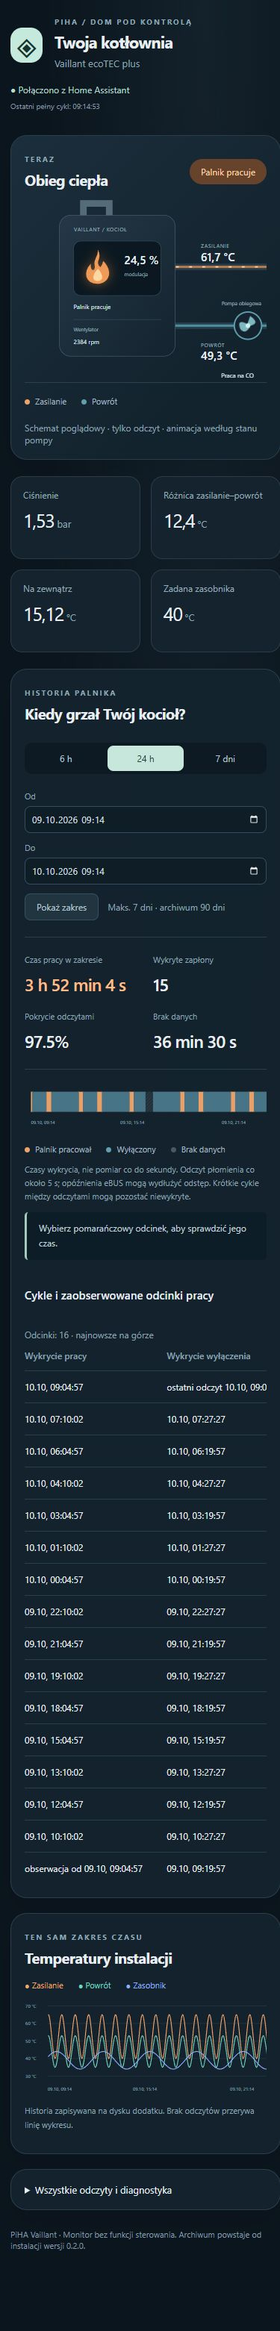
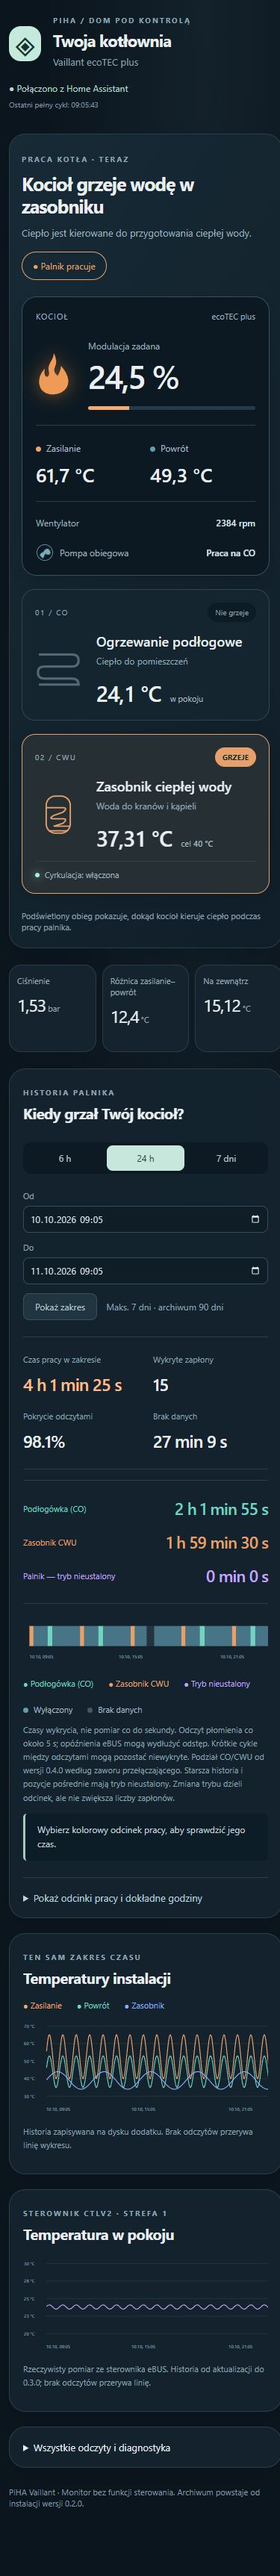
Redesign live boiler overview for clarity in version 0.5.0

diff --git a/pihavaillant/frontend/style.css b/pihavaillant/frontend/style.css
@@ -1,1 +1,3 @@
 :root{color-scheme:dark;font-family:Inter,ui-sans-serif,system-ui,sans-serif;background:#0b151d;color:#e9eff3;font-synthesis:none}*{box-sizing:border-box}body{margin:0;background:radial-gradient(ellipse at 70% 0,#20344166,transparent 55%)}main{max-width:1200px;margin:auto;padding:36px 28px}header,.section-head{display:flex;align-items:center;justify-content:space-between;gap:20px}header{margin-bottom:32px}.brand{display:flex;align-items:center;gap:16px}.brand-icon{display:grid;place-items:center;width:52px;height:58px;border-radius:16px;background:#c5e9dc;color:#16332c;font-size:38px}.eyebrow{font-size:10px;font-weight:650;letter-spacing:2px;color:#8fa9b8}h1{font-size:27px;letter-spacing:-.8px;margin:5px 0}h1 span{display:block;font-size:13px;color:#8ea5b3;letter-spacing:0;font-weight:400;margin-top:5px}h2{font-size:22px;letter-spacing:-.5px;margin:6px 0}h3{font-size:15px;font-weight:550}p{line-height:1.65}.connection{text-align:right;font-size:12px;color:#b4dacc}.connection small{display:block;color:#8599a7;margin-top:7px}.panel{background:#13232ef0;border:1px solid #2a3e4c;border-radius:22px;padding:25px;margin-bottom:20px;box-shadow:0 15px 50px #00000012}.plant{background:linear-gradient(135deg,#1b2e3b,#13232e 75%)}.pill{font-size:12px;padding:9px 15px;border-radius:30px;background:#203944;color:#afcbd8}.pill.lit{background:#67432c;color:#ffd4a8}.schematic-wrap{max-width:1080px;margin:auto}#plant{width:100%;display:block}#plant text{font-family:inherit}.svg-label{font-size:11px;letter-spacing:1px;fill:#9cb3bf}.svg-number{font-size:24px;fill:#eaf4f6;font-weight:550}.svg-small{font-size:11px;fill:#9cb3bf}.svg-white{font-size:13px;fill:#dae9ed}.pipe-bg{stroke:#253e4c;stroke-width:14;fill:none;stroke-linejoin:round}.pipe{stroke-width:5;fill:none;stroke-linejoin:round}.hot{stroke:#b9774d}.cold{stroke:#4e8c9e}.flow-animation{fill:none;stroke:#ffca91;stroke-width:3;stroke-dasharray:6 22;opacity:0}.flow-animation.running{opacity:1;animation:flow 2s linear infinite}.rotor{transform-origin:475px 280px}.rotor.running{animation:spin 2s linear infinite}#flame-symbol{color:#576b77;opacity:.5}#flame-symbol.lit{color:#ef9a56;opacity:1;filter:drop-shadow(0 0 12px #eb873c88)}#circulation-symbol.active{fill:#a4efdb;filter:drop-shadow(0 0 6px #a4efdb)}.plant-foot,.legend{display:flex;flex-wrap:wrap;gap:20px;font-size:11px;color:#a5b9c5}.plant-foot{border-top:1px solid #2a414f;padding-top:17px}.plant-foot span:last-child{margin-left:auto}.dot{display:inline-block;width:7px;height:7px;border-radius:50%;margin-right:7px}.hot-dot{background:#efa36c}.cold-dot{background:#629eae}.unknown-dot{background:#4c5763}.muted,.note{color:#8fa5b3;font-size:12px}.grid{display:grid;grid-template-columns:repeat(5,minmax(0,1fr));gap:14px;margin:22px 0}.tile{border:1px solid #2b3c48;padding:18px 21px;border-radius:16px;background:#14232d}.label{font-size:12px;color:#98adba}.value{font-size:29px;letter-spacing:-1px;margin-top:9px;font-variant-numeric:tabular-nums}.unit{font-size:13px;color:#91aab9;letter-spacing:0}.error{font-size:11px;color:#ffbd82;min-height:14px;margin-top:5px}.presets{display:flex;padding:4px;border-radius:10px;background:#0d1a23;gap:4px}button,input{font:inherit}button{border:1px solid #365060;color:#b6c7d0;background:#203540;border-radius:8px;padding:9px 15px;cursor:pointer;font-size:12px}.presets button{border:0;background:transparent}.presets button.selected{background:#c8e7dc;color:#203e33}button:hover{filter:brightness(1.2)}button:focus-visible,input:focus-visible{outline:2px solid #a9e5d1;outline-offset:3px}.range-form{display:flex;flex-wrap:wrap;gap:12px;align-items:end;margin:22px 0}.range-form label{display:flex;flex-direction:column;gap:6px;color:#91a6b4;font-size:11px}.range-form input{background:#0f1d27;border:1px solid #354d5e;color:#d0dfe6;padding:8px;border-radius:8px;font-size:12px;max-width:100%}.range-form span{align-self:center;margin-top:20px}.stats{display:grid;grid-template-columns:repeat(4,1fr);gap:20px;padding:22px 0;border-top:1px solid #2b404e;border-bottom:1px solid #2b404e;margin:14px 0}.stats span{display:block;font-size:11px;color:#8fa7b5}.stats strong{display:block;margin-top:10px;font-size:27px;letter-spacing:-.8px;font-weight:550}.stats>div:first-child strong{color:#ffbc88}.chart,.burner-chart{display:block;width:100%;min-width:560px}.chart-scroll,.table-scroll{overflow-x:auto}.chart-scroll{margin:12px 0}svg text{fill:#92aabb;font-size:11px}.legend{margin:10px 0}.note{font-size:11px}.cycle-detail{background:#0d1d28;padding:12px 16px;border-left:3px solid #a4cdbf;border-radius:5px;font-size:12px;color:#c2d4dc}.compact{margin-top:22px}table{border-collapse:collapse;width:100%;text-align:left;font-size:12px}th{font-weight:500;color:#8da5b4;padding:12px 8px}td{padding:13px 8px;border-top:1px solid #283f4d;font-variant-numeric:tabular-nums}td:first-child,th:first-child{padding-left:0}.tag{font-size:10px;background:#274538;color:#b5e4c7;padding:5px 8px;border-radius:6px;white-space:nowrap}.tag.partial{background:#493c2b;color:#e9c798}.warn{color:#ffbd82;font-size:12px}summary{cursor:pointer;font-size:13px}footer{font-size:11px;color:#829ba9;margin:25px 0}@keyframes flow{to{stroke-dashoffset:-56}}@keyframes spin{to{transform:rotate(360deg)}}@media(prefers-reduced-motion:reduce){*{animation:none!important}}@media(max-width:800px){main{padding:22px 14px}.grid{grid-template-columns:repeat(2,minmax(0,1fr))}.grid .tile:first-child{grid-column:1 / -1}.stats{grid-template-columns:repeat(2,1fr)}.panel{padding:18px}.plant-foot span:last-child{margin-left:0}.section-head{flex-wrap:wrap}h1{font-size:22px}.connection{max-width:155px}.schematic-wrap{overflow-x:auto}#plant{min-width:680px}}@media(max-width:480px){header{align-items:flex-start;flex-direction:column;gap:14px}.connection{text-align:left;max-width:none}.brand-icon{width:43px;height:47px}.range-form label{width:100%}.range-form input{width:100%}.range-form span{margin:0}.tile{padding:16px}.value{font-size:25px}.stats strong{font-size:23px}.presets{width:100%}.presets button{flex:1}.table-scroll table{min-width:600px}h2{font-size:20px}}
+/* Live overview: separate heat destinations, responsive without horizontal panning. */
+main{max-width:1280px}.plant{padding:30px;background:linear-gradient(120deg,#172a35,#101e29);--active:#91a9b8}.live-heading{display:flex;align-items:flex-start;justify-content:space-between;gap:20px;margin-bottom:30px}.live-heading h2{font-size:30px;letter-spacing:-1px;margin:10px 0}.live-heading p{font-size:13px;color:#9fb2bf;margin:0}.live-badge{white-space:nowrap;border:1px solid #38505d;border-radius:30px;padding:10px 14px;font-size:12px;color:#afc6d1;margin-top:8px}.plant-layout{display:grid;grid-template-columns:minmax(270px,.85fr) minmax(380px,1.4fr);gap:76px;align-items:stretch}.boiler-card{background:#0c1922;border:1px solid #3a505e;border-radius:20px;padding:25px;box-shadow:0 12px 25px #0002}.equipment-title{display:flex;justify-content:space-between;font-size:11px;letter-spacing:1px;color:#9cb3c1}.equipment-title span:last-child{letter-spacing:0}.boiler-display{display:flex;align-items:center;gap:22px;padding:27px 0}.boiler-display #flame-symbol{width:48px;height:65px;flex-shrink:0}.boiler-display>div{flex:1}.display-caption{color:#9db1bf;font-size:12px}.boiler-display strong{display:block;font-size:44px;font-weight:600;letter-spacing:-2px;font-variant-numeric:tabular-nums;margin:2px 0 12px}.power-track{height:5px;border-radius:5px;background:#263b49;overflow:hidden}.power-track span{display:block;width:0;height:100%;background:#f2ab72;transition:width .6s}.temperature-pair{display:grid;grid-template-columns:1fr 1fr;gap:12px;padding:18px 0;border-top:1px solid #293e4a;border-bottom:1px solid #293e4a}.temperature-pair span{font-size:12px;color:#a9bdc8}.temperature-pair strong{display:block;font-size:25px;margin-top:9px;font-weight:550;white-space:nowrap}.equipment-line{display:flex;align-items:center;justify-content:space-between;gap:12px;margin-top:20px;font-size:12px;color:#9db3bf}.equipment-line strong{color:#dbe7ed;font-weight:500;text-align:right}.pump-title{display:flex;align-items:center;gap:8px}.pump-title svg{width:24px;height:24px;color:#79aebc}#pump-rotor{transform-origin:16px 16px}#pump-rotor.running{animation:spin 2s linear infinite}.heat-routes{display:grid;gap:18px;opacity:1;stroke:none;animation:none}.destination{position:relative;border:1px solid #314651;background:#15252f;border-radius:18px;padding:20px 24px;transition:border-color .3s,background .3s;--route:#7e95a3}.destination-top{display:flex;align-items:center;justify-content:space-between;gap:12px}.route-number{font-size:10px;letter-spacing:1.6px;color:#95aebb}.route-status{font-size:10px;color:#90a3af;border-radius:20px;background:#0c1b24;padding:6px 10px}.destination-body{display:flex;gap:22px;align-items:center;margin-top:14px}.equipment-icon{width:75px;height:78px;flex-shrink:0;color:var(--route);opacity:.6}.destination h3{font-size:19px;margin:0 0 5px;font-weight:550}.destination p{font-size:12px;color:#93aab8;margin:0}.destination-reading{display:flex;align-items:baseline;gap:12px;margin-top:13px}.destination-reading strong{font-size:29px;letter-spacing:-.8px;font-weight:550;font-variant-numeric:tabular-nums}.destination-reading span{font-size:11px;color:#a6bac5}.destination-reading b{font-weight:500}.route-link{position:absolute;left:-77px;top:50%;width:76px;height:2px;background:#344c58}.route-link span{position:absolute;left:28px;top:-13px;color:#6e8e9d;background:#132530;font-size:23px;line-height:26px;padding:0 4px}.circulation-row{border-top:1px solid #30424b;padding-top:10px;margin-top:12px;font-size:11px;color:#9eb2be;display:flex;align-items:center;gap:7px}.circulation-row i{width:6px;height:6px;border-radius:50%;background:#536a76}.circulation-row i.active{background:#a4efdb}.live-foot{font-size:11px;color:#8fa7b6;margin-top:22px}.plant[data-mode=heating]{--active:#70d4c0}.plant[data-mode=dhw]{--active:#e8a06a}.plant[data-mode=heating] .heating-destination,.plant[data-mode=dhw] .dhw-destination{--route:var(--active);border-color:var(--active);background:color-mix(in srgb,var(--active) 8%,#15252f);box-shadow:0 0 30px #0002}.plant[data-mode=heating] .heating-destination .equipment-icon,.plant[data-mode=dhw] .dhw-destination .equipment-icon{opacity:1}.plant[data-mode=heating] .heating-destination .route-status,.plant[data-mode=dhw] .dhw-destination .route-status{background:var(--active);color:#10242a;font-weight:750}.plant[data-mode=heating] .heating-destination .route-link,.plant[data-mode=dhw] .dhw-destination .route-link{background:var(--active);height:3px}.plant[data-mode=heating] .heating-destination .route-link span,.plant[data-mode=dhw] .dhw-destination .route-link span{color:var(--active);animation:heat-arrow 1.8s ease-in-out infinite}.plant[data-mode=heating] .live-badge,.plant[data-mode=dhw] .live-badge{border-color:var(--active);color:var(--active)}.grid{grid-template-columns:repeat(3,minmax(0,1fr))}.grid .tile:first-child{grid-column:auto}.mode-stats{grid-template-columns:repeat(3,1fr)}.mode-stats>div:first-child strong{color:#70d4c0}.mode-stats>div:nth-child(2) strong{color:#e8a06a}.mode-stats>div:nth-child(3) strong{color:#c2a5ff}.cycle-disclosure{margin-top:22px;border-top:1px solid #2b404e;padding-top:18px}.cycle-disclosure summary{color:#bad4df}.plant[data-mode=unavailable] .boiler-display,.plant[data-mode=unavailable] .destination-reading{opacity:.4}@keyframes heat-arrow{50%{transform:translateX(7px)}}@media(max-width:850px){.plant-layout{gap:32px;grid-template-columns:1fr 1.2fr}.route-link{left:-33px;width:32px}.route-link span{left:4px}.boiler-card{padding:18px}.destination{padding:17px}.destination-body{gap:12px}.equipment-icon{width:46px}.destination h3{font-size:16px}.live-heading{display:block}.live-badge{display:inline-block;margin-top:15px}.temperature-pair strong{font-size:21px}}@media(max-width:620px){main{padding:20px 12px}.plant{padding:20px 16px}.live-heading h2{font-size:25px;line-height:1.2}.plant-layout{grid-template-columns:1fr;gap:18px}.boiler-display{padding:20px 0}.temperature-pair strong{font-size:26px}.route-link{display:none}.destination-body{gap:20px}.equipment-icon{width:62px}.destination h3{font-size:18px}.grid{gap:8px}.tile{padding:13px 10px}.tile .label{font-size:11px}.tile .value{font-size:23px}.unit{font-size:11px}.mode-stats{grid-template-columns:1fr;gap:15px}.mode-stats>div{display:flex;align-items:center;justify-content:space-between;gap:15px}.mode-stats strong{margin:0;font-size:22px}.live-heading{margin-bottom:22px}}@media(prefers-reduced-motion:reduce){*{animation:none!important;transition:none!important}}

diff --git a/pihavaillant/frontend/index.html b/pihavaillant/frontend/index.html
@@ -1,33 +1,21 @@
 <!doctype html>
-<html lang="pl"><head><meta charset="utf-8"><meta name="viewport" content="width=device-width,initial-scale=1"><title>PiHA · Vaillant</title><link rel="stylesheet" href="style.css?v=0.4.0"></head>
+<html lang="pl"><head><meta charset="utf-8"><meta name="viewport" content="width=device-width,initial-scale=1"><title>PiHA · Vaillant</title><link rel="stylesheet" href="style.css?v=0.5.0"></head>
 <body><main>
 <header><div class="brand"><span class="brand-icon">◈</span><div><div class="eyebrow">PIHA / DOM POD KONTROLĄ</div><h1>Twoja kotłownia<span>Vaillant ecoTEC plus</span></h1></div></div><div class="connection"><span id="connection" role="status">Łączenie…</span><small id="updated">Oczekiwanie na odczyty</small></div></header>
-<section class="plant panel"><div class="section-head"><div><span class="eyebrow">TERAZ</span><h2>Obieg ciepła</h2></div><span class="pill" id="plant-state">Stan nieznany</span></div>
-<div class="schematic-wrap"><svg id="plant" viewBox="0 0 1080 400" role="img" aria-label="Schemat kotła, pompy obiegowej, ogrzewania i zasobnika CWU">
-<defs><linearGradient id="case" x2="1" y2="1"><stop stop-color="#253847"/><stop offset="1" stop-color="#14232f"/></linearGradient><linearGradient id="water" x2="0" y2="1"><stop stop-color="#b77651" stop-opacity=".4"/><stop offset="1" stop-color="#369cc0" stop-opacity=".18"/></linearGradient><pattern id="fins" width="15" height="80" patternUnits="userSpaceOnUse"><rect x="3" width="7" height="80" rx="3" fill="#728e9d"/></pattern></defs>
-<path class="pipe-bg" d="M320 155H590V85H760 M590 155H825 M320 280H590V355H1020V255H970 M590 280V195H760"/>
-<path class="pipe hot" d="M320 155H590V85H760 M590 155H825"/><path class="pipe cold" d="M320 280H590V355H1020V255H970 M590 280V195H760"/>
-<path id="flow-animation" class="flow-animation" d="M320 155H590V85H760 M590 155H825"/>
-<text x="375" y="114" class="svg-label">ZASILANIE</text><text x="375" y="143" class="svg-number" id="flow">— °C</text>
-<text x="375" y="326" class="svg-label">POWRÓT</text><text x="375" y="352" class="svg-number" id="return">— °C</text>
-<rect x="74" y="45" width="246" height="300" rx="24" fill="url(#case)" stroke="#49616e"/>
-<path d="M125 45V20H180V45" fill="none" stroke="#566b78" stroke-width="14"/>
-<text x="105" y="80" class="svg-label">VAILLANT / KOCIOŁ</text>
-<rect x="104" y="100" width="186" height="116" rx="16" fill="#0b1821" stroke="#354e5e"/>
-<g id="flame-symbol" transform="translate(132 118)"><path d="M24 0C34 22 16 25 29 38C35 30 35 24 35 24C60 50 44 73 23 73C-3 73-9 48 9 30C6 48 20 47 17 34C14 22 24 15 24 0Z" fill="currentColor"/><path d="M24 41C38 57 34 67 23 67C12 67 10 55 24 41" fill="#ffd8a1"/></g>
-<text x="212" y="149" class="svg-number" id="modulation">— %</text><text x="212" y="174" class="svg-small">modulacja</text>
-<text x="104" y="245" class="svg-white" id="flame-label">Stan płomienia nieznany</text><line x1="104" x2="290" y1="267" y2="267" stroke="#354e5e"/>
-<text x="104" y="293" class="svg-small">Wentylator</text><text x="104" y="319" class="svg-white" id="fan">— rpm</text>
-<circle cx="475" cy="280" r="29" fill="#14232f" stroke="#5e9faf" stroke-width="3"/>
-<g id="pump-rotor" class="rotor"><path d="M475 259Q500 269 480 279Q475 301 461 291Q447 270 473 277Z" fill="#7db8c2"/><circle cx="475" cy="280" r="5" fill="#d0f2ed"/></g>
-<text x="419" y="237" class="svg-small">Pompa obiegowa</text><text x="418" y="390" class="svg-white" id="pump-label">—</text>
-<rect x="760" y="45" width="200" height="155" rx="16" fill="#172b36" stroke="#49616e"/><rect x="785" y="91" width="150" height="75" fill="url(#fins)"/><text x="785" y="73" class="svg-label">PODŁOGÓWKA (CO)</text>
-<rect x="825" y="225" width="145" height="110" rx="32" fill="url(#water)" stroke="#668596" stroke-width="2"/>
-<path d="M825 155H847V255C847 275 944 259 944 281C944 301 851 284 851 304H970V255" fill="none" stroke="#d99064" stroke-width="4"/>
-<text x="847" y="249" class="svg-small">ZASOBNIK CWU</text><text x="1000" y="305" class="svg-number" text-anchor="end" id="storage">— °C</text>
-<circle cx="716" cy="355" r="19" fill="#14232f" stroke="#5e9faf" stroke-width="2"/><path id="circulation-symbol" d="M710 344L727 355L710 366Z" fill="#7db8c2"/>
-<text x="648" y="390" class="svg-small" id="circulation-label">Cyrkulacja: —</text>
-</svg></div><div class="plant-foot"><span><i class="dot hot-dot"></i>Zasilanie</span><span><i class="dot cold-dot"></i>Powrót</span><span class="muted">Schemat poglądowy · tylko odczyt · animacja według stanu pompy</span></div></section>
+<section class="plant panel" id="live-plant" data-mode="unknown">
+<div class="live-heading"><div><span class="eyebrow">PRACA KOTŁA · TERAZ</span><h2 id="plant-state" role="status">Oczekiwanie na odczyt</h2><p id="mode-description">Za chwilę pojawi się bieżący stan instalacji.</p></div><span class="live-badge" id="flame-label">Brak danych</span></div>
+<div class="plant-layout">
+<article class="boiler-card">
+<div class="equipment-title"><span>KOCIOŁ</span><span>ecoTEC plus</span></div>
+<div class="boiler-display"><svg id="flame-symbol" viewBox="0 0 64 80" aria-hidden="true"><path d="M32 3C45 29 23 29 39 44C45 33 45 26 45 26C72 57 52 77 30 77C3 77-1 48 16 31C12 51 27 48 23 35C20 22 32 16 32 3Z" fill="currentColor"/></svg><div><span class="display-caption">Modulacja zadana</span><strong id="modulation">— %</strong><div class="power-track"><span id="power-fill"></span></div></div></div>
+<div class="temperature-pair"><div><span><i class="dot hot-dot"></i>Zasilanie</span><strong id="flow">— °C</strong></div><div><span><i class="dot cold-dot"></i>Powrót</span><strong id="return">— °C</strong></div></div>
+<div class="equipment-line"><span>Wentylator</span><strong id="fan">— rpm</strong></div>
+<div class="equipment-line"><span class="pump-title"><svg viewBox="0 0 32 32" aria-hidden="true"><circle cx="16" cy="16" r="14" fill="none" stroke="currentColor"/><g id="pump-rotor"><path d="M16 5Q29 9 19 16Q16 28 8 22Q2 12 15 14Z" fill="currentColor"/></g></svg>Pompa obiegowa</span><strong id="pump-label">—</strong></div>
+</article>
+<div class="heat-routes" id="flow-animation">
+<article class="destination heating-destination" id="heating-card"><div class="route-link" aria-hidden="true"><span>→</span></div><div class="destination-top"><span class="route-number">01 / CO</span><span class="route-status" id="heating-status">Brak danych</span></div><div class="destination-body"><svg class="equipment-icon floor-icon" viewBox="0 0 100 90" aria-hidden="true"><path d="M10 12H80Q94 12 94 25T80 38H20Q6 38 6 51T20 64H80Q94 64 94 77H10" fill="none" stroke="currentColor" stroke-width="5" stroke-linecap="round"/></svg><div><h3>Ogrzewanie podłogowe</h3><p>Ciepło do pomieszczeń</p><div class="destination-reading"><strong id="room-reading">— °C</strong><span>w pokoju</span></div></div></div></article>
+<article class="destination dhw-destination" id="dhw-card"><div class="route-link" aria-hidden="true"><span>→</span></div><div class="destination-top"><span class="route-number">02 / CWU</span><span class="route-status" id="dhw-status">Brak danych</span></div><div class="destination-body"><svg class="equipment-icon" viewBox="0 0 100 90" aria-hidden="true"><rect x="24" y="5" width="52" height="80" rx="20" fill="none" stroke="currentColor" stroke-width="3"/><path d="M24 30H60Q72 30 60 40L40 47Q28 54 40 54H60Q72 54 60 64L40 70H76" fill="none" stroke="currentColor" stroke-width="3"/><path d="M30 80H70" stroke="currentColor" stroke-width="3"/></svg><div><h3>Zasobnik ciepłej wody</h3><p>Woda do kranów i kąpieli</p><div class="destination-reading"><strong id="storage">— °C</strong><span>cel <b id="storage-goal">— °C</b></span></div></div></div><div class="circulation-row"><i id="circulation-symbol"></i><span id="circulation-label">Cyrkulacja: —</span></div></article>
+</div></div><div class="live-foot">Podświetlony obieg pokazuje, dokąd kocioł kieruje ciepło podczas pracy palnika.</div></section>
 <div class="grid" id="tiles"></div>
 <section class="panel history-panel"><div class="section-head"><div><span class="eyebrow">HISTORIA PALNIKA</span><h2>Kiedy grzał Twój kocioł?</h2></div><div class="presets" aria-label="Zakres historii"><button data-hours="6">6 h</button><button data-hours="24" class="selected">24 h</button><button data-hours="168">7 dni</button></div></div>
 <form id="range-form" class="range-form"><label>Od<input id="range-start" type="datetime-local" required></label><label>Do<input id="range-end" type="datetime-local" required></label><button type="submit">Pokaż zakres</button><span class="muted">Maks. 7 dni · archiwum 90 dni</span></form>
@@ -37,10 +25,10 @@
 <div class="legend"><span style="color:#70d4c0">● Podłogówka (CO)</span><span style="color:#e8a06a">● Zasobnik CWU</span><span style="color:#c2a5ff">● Tryb nieustalony</span><span><i class="dot cold-dot"></i>Wyłączony</span><span><i class="dot unknown-dot"></i>Brak danych</span></div>
 <p class="note">Czasy wykrycia, nie pomiar co do sekundy. Odczyt płomienia co około 5 s; opóźnienia eBUS mogą wydłużyć odstęp. Krótkie cykle między odczytami mogą pozostać niewykryte. Podział CO/CWU od wersji 0.4.0 według zaworu przełączającego. Starsza historia i pozycje pośrednie mają tryb nieustalony. Zmiana trybu dzieli odcinek, ale nie zwiększa liczby zapłonów.</p>
 <p id="cycle-detail" class="cycle-detail">Wybierz kolorowy odcinek pracy, aby sprawdzić jego czas.</p>
-<div class="section-head compact"><h3>Cykle i zaobserwowane odcinki pracy</h3><span id="cycle-count" class="muted"></span></div>
-<div class="table-scroll"><table><thead><tr><th>Przeznaczenie</th><th>Początek odcinka</th><th>Koniec odcinka</th><th>Czas w zakresie</th><th>Kompletność</th></tr></thead><tbody id="cycles"></tbody></table></div></section>
+<details class="cycle-disclosure"><summary>Pokaż odcinki pracy i dokładne godziny</summary><div class="section-head compact"><h3>Odcinki pracy</h3><span id="cycle-count" class="muted"></span></div>
+<div class="table-scroll"><table><thead><tr><th>Przeznaczenie</th><th>Początek odcinka</th><th>Koniec odcinka</th><th>Czas w zakresie</th><th>Kompletność</th></tr></thead><tbody id="cycles"></tbody></table></div></details></section>
 <section class="panel"><div class="section-head"><div><span class="eyebrow">TEN SAM ZAKRES CZASU</span><h2>Temperatury instalacji</h2></div></div><div class="legend"><span style="color:#f3a56d">● Zasilanie</span><span style="color:#70d4c0">● Powrót</span><span style="color:#8daeff">● Zasobnik</span></div><div class="chart-scroll"><svg id="chart" viewBox="0 0 1000 230" class="chart" role="img" aria-label="Wykres temperatur"></svg></div><p class="note">Historia zapisywana na dysku dodatku. Brak odczytów przerywa linię wykresu.</p></section>
 <section class="panel"><div class="section-head"><div><span class="eyebrow">STEROWNIK CTLV2 · STREFA 1</span><h2>Temperatura w pokoju</h2></div></div><div class="chart-scroll"><svg id="room-chart" viewBox="0 0 1000 230" class="chart" role="img" aria-label="Historia temperatury pokojowej"></svg></div><p class="note">Rzeczywisty pomiar ze sterownika eBUS. Historia od aktualizacji do 0.3.0; brak odczytów przerywa linię.</p></section>
 <section class="panel"><details><summary>Wszystkie odczyty i diagnostyka</summary><div class="table-scroll"><table><thead><tr><th>Parametr</th><th>Wartość</th><th>Jakość</th></tr></thead><tbody id="details"></tbody></table></div></details></section>
 <footer>PiHA Vaillant · Monitor bez funkcji sterowania. Archiwum powstaje od instalacji wersji 0.2.0.</footer>
-</main><script src="app.js?v=0.4.0"></script></body></html>
+</main><script src="app.js?v=0.5.0"></script></body></html>

diff --git a/pihavaillant/frontend/app.js b/pihavaillant/frontend/app.js
@@ -1,5 +1,5 @@
 const $ = id => document.getElementById(id);
-const metricKeys = ['room_temp', 'pressure', 'delta_temp', 'outdoor_temp', 'storage_target'];
+const metricKeys = ['pressure', 'delta_temp', 'outdoor_temp'];
 const modeNames={heating:'Podłogówka (CO)',dhw:'Zasobnik CWU',unknown:'Tryb nieustalony',off:'Wyłączony'};
 const modeColors={heating:'#70d4c0',dhw:'#e8a06a',unknown:'#c2a5ff'};
 const errors = {sensor_fault:'Błąd czujnika',invalid_field:'Pole niewiarygodne',out_of_range:'Poza zakresem',ebusd_error:'Brak odczytu ebusd',waiting:'Oczekiwanie',TimeoutError:'Przekroczony czas',missing_source:'Brak danych źródłowych',invalid_number_or_unit:'Nieprawidłowa wartość/jednostka'};
@@ -24,7 +24,14 @@ function renderState(s){
   const pumping=['on','hc','hwc','heating','hotwater'].includes(pump);
   $('flame-symbol').classList.toggle('lit',lit);$('pump-rotor').classList.toggle('running',pumping);$('flow-animation').classList.toggle('running',pumping);
   $('flame-label').textContent=lit?'Palnik: '+(modeNames[m.burner_mode?.value]||modeNames.unknown):m.flame.value==='OFF'?'Palnik wyłączony':'Stan płomienia nieznany';
-  $('plant-state').textContent=$('flame-label').textContent;$('plant-state').classList.toggle('lit',lit);
+  const mode=lit?(['heating','dhw'].includes(m.burner_mode?.value)?m.burner_mode.value:'unknown'):m.flame.value==='OFF'?'off':'unavailable';
+  $('live-plant').dataset.mode=mode;
+  $('plant-state').textContent=({heating:'Kocioł ogrzewa podłogówkę',dhw:'Kocioł grzeje wodę w zasobniku',off:'Palnik wyłączony',unknown:'Palnik pracuje · obieg nieustalony',unavailable:'Brak aktualnych danych'})[mode];
+  $('mode-description').textContent=({heating:'Ciepło jest kierowane do ogrzewania pomieszczeń.',dhw:'Ciepło jest kierowane do przygotowania ciepłej wody.',off:'Brak spalania. Pompa może nadal rozprowadzać ciepło.',unknown:'Nie można teraz potwierdzić, dokąd trafia ciepło.',unavailable:'Sprawdź połączenie z kotłem. Oczekujemy na nowe odczyty.'})[mode];
+  $('flame-label').textContent=lit?'● Palnik pracuje':mode==='off'?'○ Palnik wyłączony':'— Brak odczytu';
+  ['heating','dhw'].forEach(route=>{$(route+'-status').textContent=mode===route?'GRZEJE':mode==='off'?'Bez grzania':mode==='unknown'||mode==='unavailable'?'Nieustalone':'Nie grzeje';});
+  $('room-reading').textContent=value(m.room_temp)+' °C';$('storage-goal').textContent=value(m.storage_target)+' °C';
+  $('power-fill').style.width=(lit&&typeof m.modulation.value==='number'?Math.max(0,Math.min(100,m.modulation.value)):0)+'%';
   $('pump-label').textContent=({off:'Wyłączona',on:'Pracuje',hc:'Praca na CO',hwc:'Ładowanie CWU'})[pump]||('Stan: '+value(m.pump_state));
   $('circulation-label').textContent='Cyrkulacja: '+value(m.circulation).toLowerCase();$('circulation-symbol').classList.toggle('active',m.circulation.value==='ON');
   $('tiles').replaceChildren();metricKeys.forEach(k=>{const x=m[k],tile=el('article','','tile');tile.append(el('div',x.name,'label'));const v=el('div',value(x),'value');v.append(el('span',' '+(x.unit||''),'unit'));tile.append(v,el('div',x.error?(errors[x.error]||x.error):'','error'));$('tiles').append(tile);});
@@ -46,7 +53,7 @@ function renderBurner(data){
 }
 function renderTemperatures(rows,r,keys=['flow_temp','return_temp','storage_temp'],chartId='chart',colors=['#f3a56d','#70d4c0','#8daeff']){const svg=$(chartId);svg.replaceChildren();const vals=rows.flatMap(p=>keys.map(key=>p[key])).filter(v=>typeof v==='number');if(!vals.length){svgNode(svg,'text',{x:30,y:100},'Brak zapisanych temperatur w wybranym zakresie');return;}const lo=Math.floor(Math.min(...vals)/10)*10,hi=Math.max(lo+10,Math.ceil(Math.max(...vals)/10)*10),x=ts=>55+930*(ts-r.start)/(r.end-r.start);for(let i=0;i<=4;i++){const y=15+i*42;svgNode(svg,'line',{x1:55,y1:y,x2:985,y2:y,stroke:'#29404e'});svgNode(svg,'text',{x:2,y:y+4},(hi-(hi-lo)*i/4).toFixed(0)+' °C');}keys.forEach((key,i)=>{let path='',last=null;const maxGap=Math.max(420,(r.end-r.start)/800*2.5);for(const row of rows){if(row[key]===null||row[key]===undefined){last=null;continue;}const y=15+168*(hi-row[key])/(hi-lo);path+=(last===null||row.ts-last>maxGap?'M':'L')+x(row.ts)+','+y;last=row.ts;if(rows.length===1)svgNode(svg,'circle',{cx:x(row.ts),cy:y,r:3,fill:colors[i]});}svgNode(svg,'path',{d:path,fill:'none',stroke:colors[i],'stroke-width':2});});for(let i=0;i<=4;i++)svgNode(svg,'text',{x:55+930*i/4,y:218,'text-anchor':i===0?'start':i===4?'end':'middle'},new Date((r.start+(r.end-r.start)*i/4)*1000).toLocaleString('pl-PL',{day:'2-digit',month:'2-digit',hour:'2-digit',minute:'2-digit'}));}
 async function loadHistory(){if(historyBusy)return;historyBusy=true;try{const r=range(),query=`?start=${r.start}&end=${r.end}`;const responses=await Promise.all([fetch('api/burner'+query),fetch('api/history'+query)]);if(responses.some(x=>!x.ok))throw Error();const [burner,temps]=await Promise.all(responses.map(x=>x.json()));renderBurner(burner);renderTemperatures(temps,burner);renderTemperatures(temps,burner,['room_temp'],'room-chart',['#c2a5ff']);}catch(e){$('history-error').textContent='Nie udało się pobrać historii. Wyświetlone dane mogą być nieaktualne.';}finally{historyBusy=false;}}
-async function refresh(){try{const response=await fetch('api/state');if(!response.ok)throw Error();renderState(await response.json());}catch(e){$('connection').textContent='Brak połączenia — dane nieaktualne';['pump-rotor','flow-animation'].forEach(id=>$(id).classList.remove('running'));$('flame-symbol').classList.remove('lit');$('plant-state').classList.remove('lit');$('plant-state').textContent='Brak aktualnego odczytu';$('flame-label').textContent='Stan płomienia nieznany';$('circulation-symbol').classList.remove('active');}finally{setTimeout(refresh,5000);}}
+async function refresh(){try{const response=await fetch('api/state');if(!response.ok)throw Error();renderState(await response.json());}catch(e){$('connection').textContent='Brak połączenia — dane nieaktualne';['pump-rotor','flow-animation'].forEach(id=>$(id).classList.remove('running'));$('flame-symbol').classList.remove('lit');$('live-plant').dataset.mode='unavailable';$('plant-state').textContent='Brak aktualnych danych';$('mode-description').textContent='Nie można odświeżyć odczytów. Pokazane liczby mogą być nieaktualne.';$('flame-label').textContent='— Brak odczytu';['heating','dhw'].forEach(k=>$(k+'-status').textContent='Nieustalone');$('power-fill').style.width='0%';$('circulation-symbol').classList.remove('active');$('pump-label').textContent='Brak danych';$('circulation-label').textContent='Cyrkulacja: brak danych';}finally{setTimeout(refresh,5000);}}
 document.querySelectorAll('[data-hours]').forEach(button=>button.addEventListener('click',()=>{selectedHours=Number(button.dataset.hours);customRange=null;document.querySelectorAll('[data-hours]').forEach(b=>b.classList.toggle('selected',b===button));setRangeInputs();loadHistory();}));
 $('range-form').addEventListener('submit',e=>{e.preventDefault();const start=new Date($('range-start').value).getTime()/1000,end=Math.min(Date.now()/1000,new Date($('range-end').value).getTime()/1000);if(!Number.isFinite(start)||!Number.isFinite(end)||end<=start||end-start>604800){$('history-error').textContent='Wybierz poprawny zakres do 7 dni, kończący się nie później niż teraz.';return;}customRange={start,end};document.querySelectorAll('[data-hours]').forEach(b=>b.classList.remove('selected'));loadHistory();});
 setRangeInputs();refresh();loadHistory();setInterval(loadHistory,15000);

diff --git a/pihavaillant/backend/mqtt.py b/pihavaillant/backend/mqtt.py
@@ -14,7 +14,7 @@ def discovery(metric, device_id, expiry):
         "availability": [{"topic": f"{base}/status"}, {"topic": f"{base}/{metric.key}/availability"}],
         "availability_mode": "all",
         "expire_after": expiry,
-        "device": {"identifiers": [f"pihavaillant_{device_id}"], "name": f"Vaillant {device_id}", "manufacturer": "Vaillant", "model": "ecoTEC plus (ebusd)", "sw_version": "0.4.0"},
+        "device": {"identifiers": [f"pihavaillant_{device_id}"], "name": f"Vaillant {device_id}", "manufacturer": "Vaillant", "model": "ecoTEC plus (ebusd)", "sw_version": "0.5.0"},
     }
     for key, value in [("unit_of_measurement", metric.unit), ("device_class", metric.device_class), ("state_class", metric.state_class)]:
         if value:

diff --git a/docs/VALIDATION.md b/docs/VALIDATION.md
@@ -1,6 +1,11 @@
-# Weryfikacja wydania 0.4.0 — 2026-10-11
+# Weryfikacja wydania 0.5.0 — 2026-10-11
 
 ## Wykonane lokalnie
+
+- Panel 0.5.0: widoki CO, CWU, palnik wyłączony i brak danych; osobne aktywne
+  karty, odczyty i pasek modulacji. Kontrola w przeglądarce przy szerokości 390 px
+  oraz na komputerze. Zrzuty `live-overview-demo.png`, `panel-desktop.png`
+  i `panel-mobile.png` przedstawiają dane demonstracyjne.
 
 - Panel 0.4.0: dwa kolory pracy, sumy CO/CWU, tabela przeznaczenia i zakres 6 h.
   Brak błędów JavaScript; układ 390 px bez przepełnienia strony.

diff --git a/README.md b/README.md
@@ -1,6 +1,6 @@
 # PiHA Vaillant
 
-**Wersja 0.4.0:** osobna historia pracy na podłogówkę i zasobnik CWU, temperatura pokojowa CTLV2 i schemat kotłowni.
+**Wersja 0.5.0:** nowy przejrzysty panel z osobnymi kartami kotła, podłogówki i CWU oraz wyróżnieniem aktywnego obiegu.
 W HA odśwież repozytoria w sklepie dodatków, otwórz PiHA Vaillant i wybierz
 **Aktualizuj**. Zachowano slug i identyfikatory encji; nie trzeba dodawać
 integracji ponownie. Nowa historia zaczyna być zbierana po aktualizacji.

diff --git a/pihavaillant/CHANGELOG.md b/pihavaillant/CHANGELOG.md
@@ -1,3 +1,11 @@
+# 0.5.0
+
+- Nowy czytelny panel: kocioł oraz osobne karty podłogówki i zasobnika CWU.
+- Aktywny obieg wyróżniony kolorem, strzałką i oznaczeniem GRZEJE.
+- Duży opis bieżącej pracy, pasek modulacji i uporządkowane temperatury.
+- Układ telefonu bez przewijania schematu na boki; szczegóły cykli rozwijane.
+- Brak połączenia wygasza aktywność i oznacza odczyty jako nieaktualne.
+
 # 0.4.0
 
 - Podział pracy palnika na podłogówkę (CO), zasobnik CWU i tryb nieustalony.
